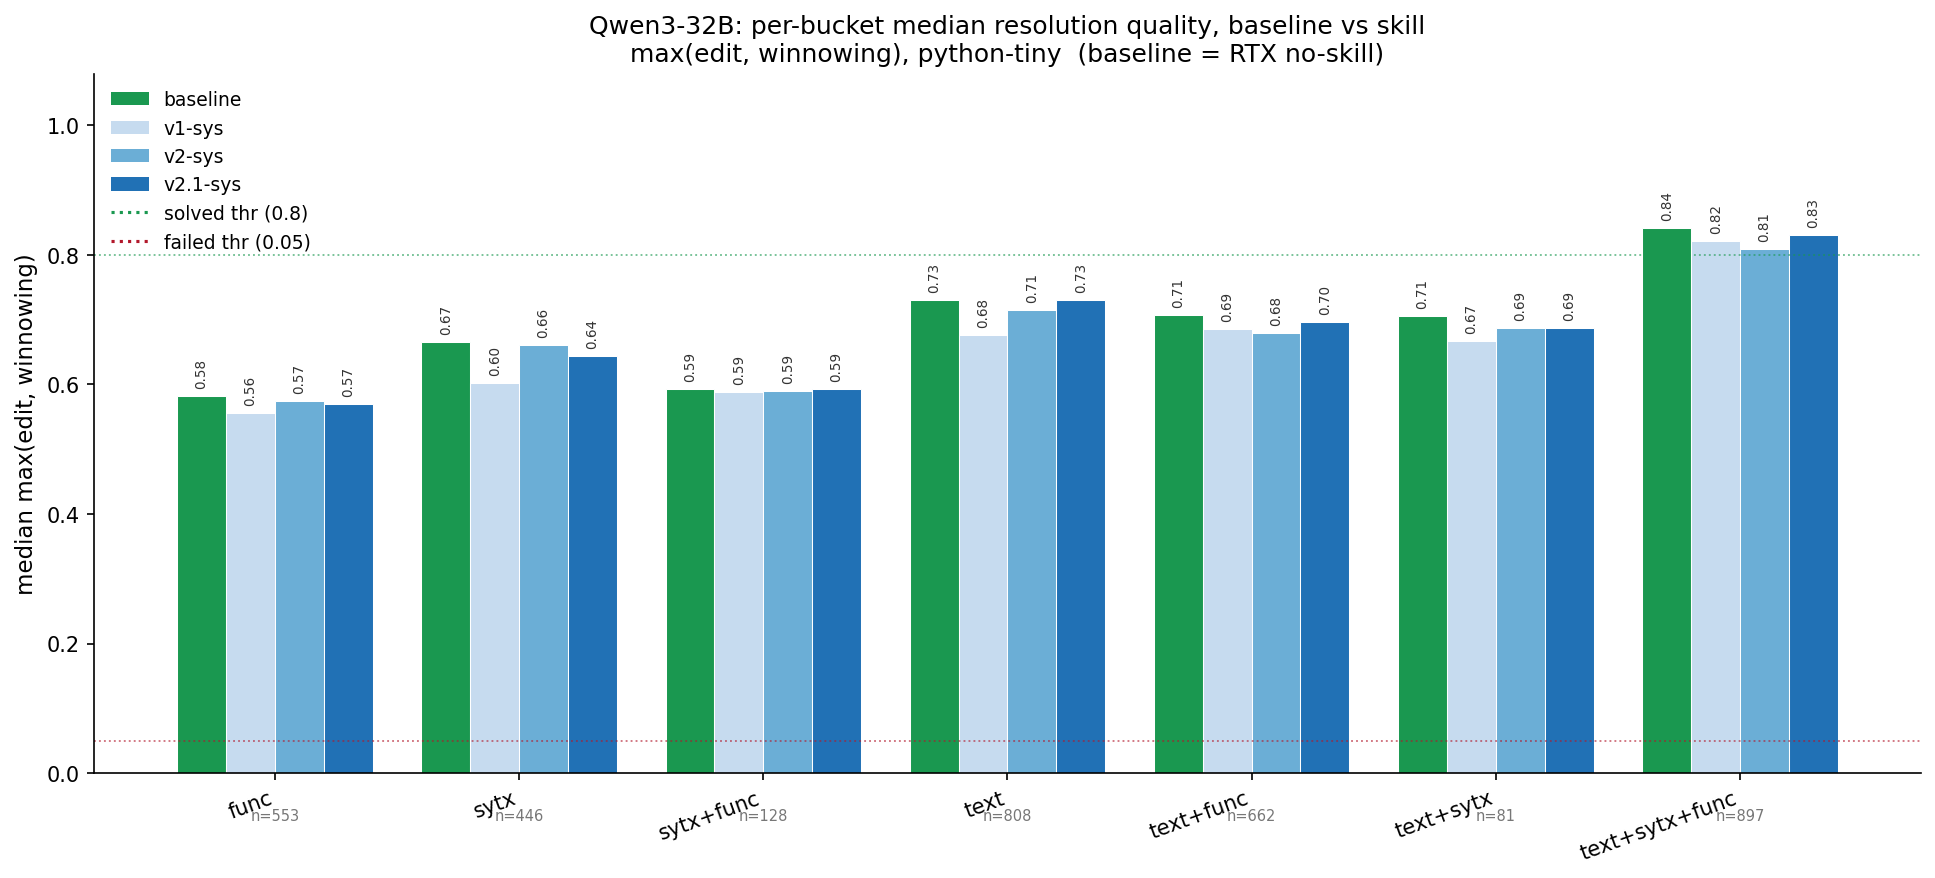
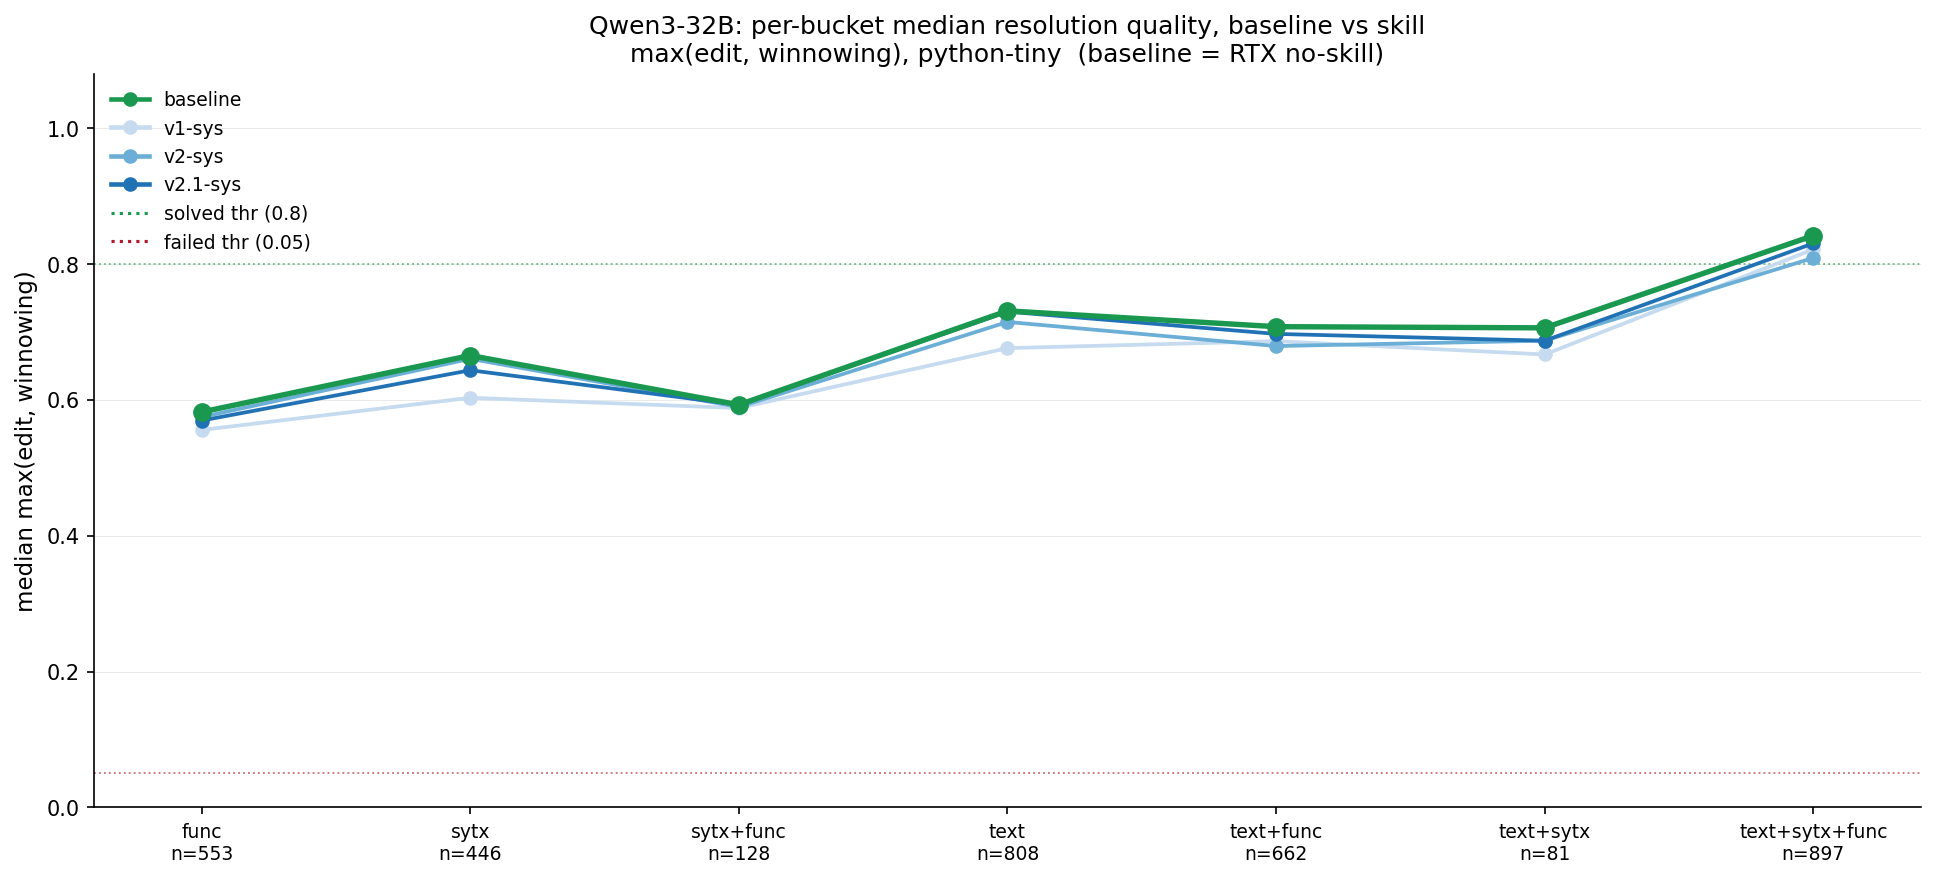
refactor(figures): per-bucket median max-score as line/curve, large pair
Switches the two median-by-bucket figures (Qwen3-32B, Apertus-70B) from
grouped bars to a line per condition (baseline green + v1/v2/v2.1-sys), marker
per bucket. Per-point value labels dropped (they overlapped where series
cluster); values read off the y-gridlines. Both baselines RTX (#87, #83).

refs #89

diff --git a/scripts/plot_median_by_bucket_large.py b/scripts/plot_median_by_bucket_large.py
@@ -1,10 +1,11 @@
 """
 plot_median_by_bucket_large.py — per-bucket median max-score, large pair (#89)
 
-One grouped-bar figure per large-pair model. For each of the 7 python-tiny
-buckets, four bars: the no-skill baseline (green) plus skill-v1/v2/v2.1-sys.
-Bar height = median of max(edit, winnowing) over the bucket's cases. Median
-value printed above each bar; per-bucket n printed below the group.
+One line/curve figure per large-pair model. For each of the 7 python-tiny
+buckets, four series: the no-skill baseline (green) plus skill-v1/v2/v2.1-sys.
+Each series is a line through the bucket medians of max(edit, winnowing), with a
+marker per bucket. Median value labelled at each marker; per-bucket n along the
+x-axis.
 
 Both models use their RTX-box no-skill baseline (#87 for Qwen3-32B; Apertus-70B
 was generated entirely on the RTX box, #83 — it has no other baseline). Data
@@ -22,7 +23,6 @@ import matplotlib
 matplotlib.use("Agg")
 import matplotlib.pyplot as plt
 import numpy as np
-from matplotlib.patches import Patch
 
 
 RESULTS_DIR = os.path.join(os.path.dirname(__file__), "results")
@@ -88,42 +88,39 @@ def plot_model(label, stem, baseline_fname, skill_fnames):
                        load_max_scores(os.path.join(RESULTS_DIR, skill_fnames[v]),
                                        condition_filter=f"skill-v{v}-sys")))
 
-    n_series = len(series)
     x = np.arange(len(BUCKETS))
-    width = 0.8 / n_series
 
     fig, ax = plt.subplots(figsize=(13, 6))
 
-    for i, (name, color, data) in enumerate(series):
+    for name, color, data in series:
         meds = [float(np.median(data[b])) if data[b] else np.nan for b in BUCKETS]
-        offset = (i - (n_series - 1) / 2) * width
-        bars = ax.bar(x + offset, meds, width, label=name, color=color,
-                      edgecolor="white", linewidth=0.5)
-        for bx, m in zip(x + offset, meds):
-            if not np.isnan(m):
-                ax.text(bx, m + 0.012, f"{m:.2f}", ha="center", va="bottom",
-                        fontsize=6.5, rotation=90, color="#333")
+        lw = 2.6 if name == "baseline" else 1.8
+        ms = 8 if name == "baseline" else 6
+        z  = 4 if name == "baseline" else 3
+        ax.plot(x, meds, marker="o", markersize=ms, linewidth=lw,
+                color=color, label=name, zorder=z)
 
     # per-bucket n (baseline n; equal across cells on the common slice)
     base_data = series[0][2]
-    for bx, b in zip(x, BUCKETS):
-        ax.text(bx, -0.055, f"n={len(base_data[b])}", ha="center", va="top",
-                fontsize=7, color="#777")
+    bucket_labels = [f"{b}\nn={len(base_data[b])}" for b in BUCKETS]
 
     ax.axhline(T_SOLVED, color="#1a9850", linestyle=":", linewidth=0.9, alpha=0.6)
     ax.axhline(T_FAIL,   color="#b2182b", linestyle=":", linewidth=0.9, alpha=0.6)
+    ax.set_xlim(-0.4, len(BUCKETS) - 0.6)
     ax.set_ylim(0, 1.08)
     ax.set_yticks([0, 0.2, 0.4, 0.6, 0.8, 1.0])
+    ax.grid(axis="y", linestyle="-", linewidth=0.4, alpha=0.3)
     ax.set_ylabel("median max(edit, winnowing)", fontsize=11)
     ax.set_xticks(x)
-    ax.set_xticklabels(BUCKETS, rotation=20, ha="right", fontsize=10)
+    ax.set_xticklabels(bucket_labels, fontsize=9)
     ax.set_title(
         f"{label}: per-bucket median resolution quality, baseline vs skill\n"
         f"max(edit, winnowing), python-tiny  (baseline = RTX no-skill)",
         fontsize=12,
     )
 
-    handles = [Patch(facecolor=c, label=n) for n, c, _ in series]
+    handles = [plt.Line2D([0], [0], color=c, marker="o", linewidth=2.2, label=n)
+               for n, c, _ in series]
     handles += [
         plt.Line2D([0], [0], color="#1a9850", linestyle=":", label=f"solved thr ({T_SOLVED})"),
         plt.Line2D([0], [0], color="#b2182b", linestyle=":", label=f"failed thr ({T_FAIL})"),
